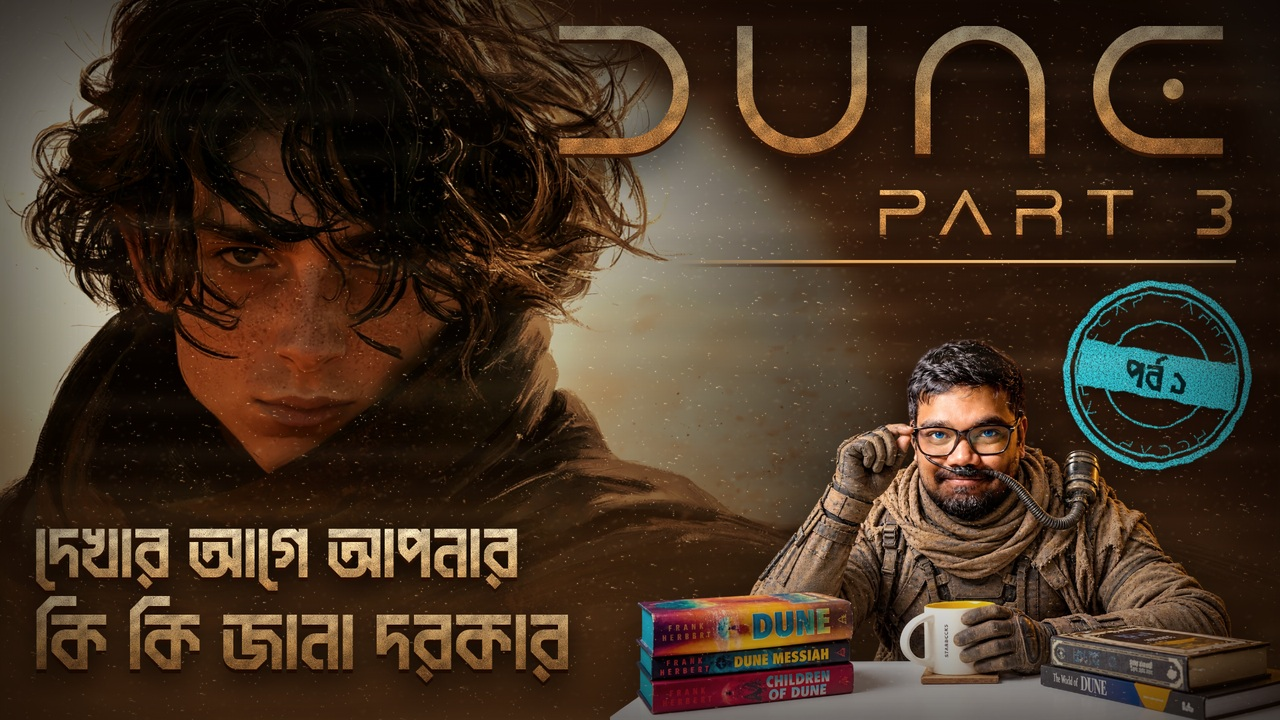
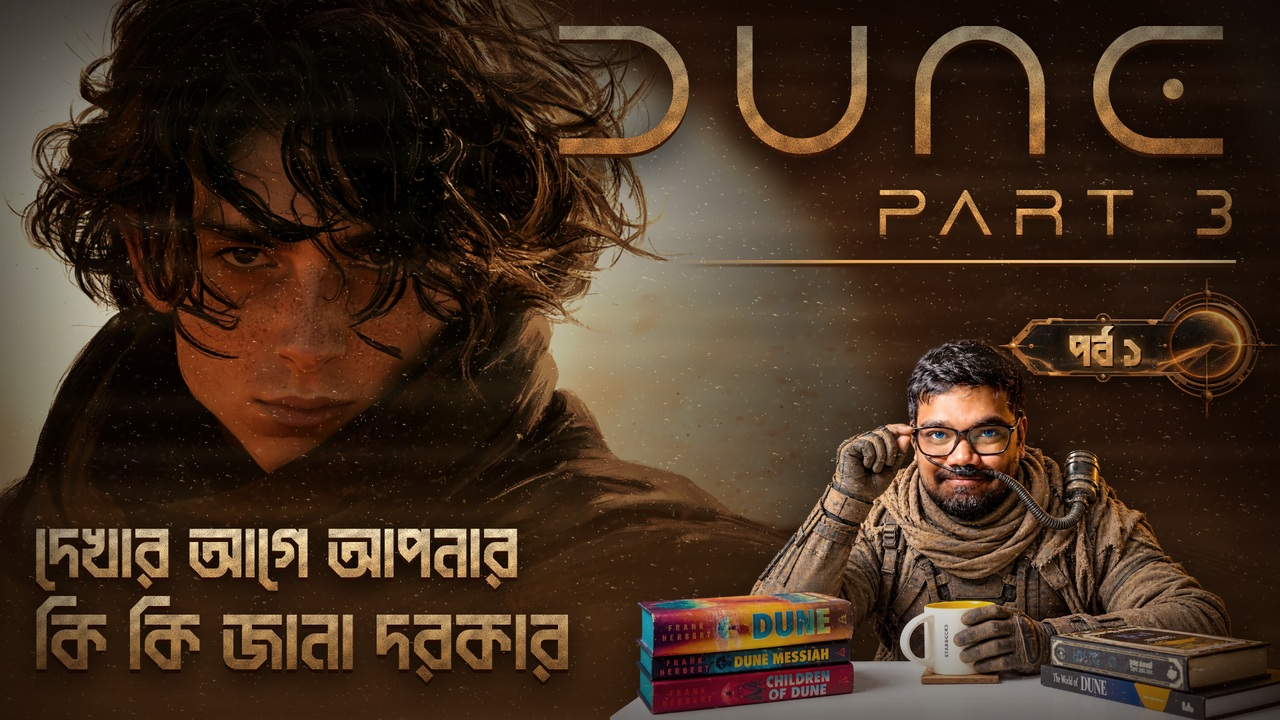
Thumbnail: replace stamp with flipped copper পর্ব ১ badge in Dabanol
Claude-Session: https://claude.ai/code/session_0199UBB8gc7Qm7gLSMgZnrMy

Changed region(s): [[0.7812, 0.3667, 1.0, 0.6722]]

diff --git a/thumbnails/dune-part3/thumb.html b/thumbnails/dune-part3/thumb.html
@@ -33,18 +33,18 @@ html,body{width:1280px;height:720px;overflow:hidden;background:#1a0d05}
 #bn{left:34px;bottom:30px;font-family:Dabanol;line-height:1.08;filter:drop-shadow(0 4px 0 #2a1004) drop-shadow(0 8px 16px rgba(0,0,0,.9))}
 #bn .l1{font-size:78px;background-image:url(sand_bn.png)}
 #bn .l2{font-size:88px;background-image:url(sand_title.png);background-position:0 40%}
-/* stamp */
-#stamp{left:1062px;top:280px;transform:rotate(10deg);filter:url(#grunge) drop-shadow(0 3px 6px rgba(0,0,0,.6));mix-blend-mode:normal}
+/* পর্ব ১ badge (flipped recreation of the supplied plate) */
+#badge{left:996px;top:278px;width:282px;height:141px;filter:drop-shadow(0 6px 10px rgba(0,0,0,.75))}
+#badge img{width:100%;height:100%;display:block}
+#badge .t{position:absolute;left:19.4%;width:38.6%;top:34%;height:32%;display:flex;align-items:center;justify-content:center;
+  font-family:Dabanol;font-size:47px;line-height:1;padding-top:4px;white-space:nowrap;
+  background:url(sand_title.png) 0 35%/300px auto;-webkit-background-clip:text;background-clip:text;color:transparent;-webkit-text-fill-color:transparent;
+  -webkit-text-stroke:1.2px transparent}
+#badge .glow{position:absolute;left:19.4%;width:38.6%;top:34%;height:32%;display:flex;align-items:center;justify-content:center;
+  font-family:Dabanol;font-size:47px;line-height:1;padding-top:4px;white-space:nowrap;color:#ff9a3c;filter:blur(6px);opacity:.75}
+#badge .sh{position:absolute;left:19.4%;width:38.6%;top:34%;height:32%;display:flex;align-items:center;justify-content:center;
+  font-family:Dabanol;font-size:47px;line-height:1;padding-top:4px;white-space:nowrap;color:#1a0a02;transform:translate(2px,3px)}
 </style></head><body>
-<svg width="0" height="0" style="position:absolute">
-  <filter id="grunge" x="-10%" y="-10%" width="120%" height="120%">
-    <feTurbulence type="fractalNoise" baseFrequency=".9" numOctaves="2" seed="4" result="n"/>
-    <feColorMatrix in="n" type="matrix" values="0 0 0 0 0  0 0 0 0 0  0 0 0 0 0  0 0 0 -3 2.35" result="holes"/>
-    <feComposite in="SourceGraphic" in2="holes" operator="in" result="eaten"/>
-    <feTurbulence type="fractalNoise" baseFrequency=".05" numOctaves="2" seed="9" result="d"/>
-    <feDisplacementMap in="eaten" in2="d" scale="5"/>
-  </filter>
-</svg>
 <div id="c">
   <div id="bg" class="abs"></div>
   <div id="warm" class="abs"></div>
@@ -65,20 +65,10 @@ html,body{width:1280px;height:720px;overflow:hidden;background:#1a0d05}
     <div class="l2 sand">কি কি জানা দরকার</div>
   </div>
 
-  <svg id="stamp" class="abs" width="190" height="190" viewBox="0 0 210 210">
-    <defs><path id="ring" d="M105,105 m-78,0 a78,78 0 1,1 156,0 a78,78 0 1,1 -156,0"/></defs>
-    <g fill="none" stroke="#33d6e6" >
-      <circle cx="105" cy="105" r="100" stroke-width="7"/>
-      <circle cx="105" cy="105" r="90" stroke-width="2.5"/>
-      <circle cx="105" cy="105" r="58" stroke-width="2.5"/>
-    </g>
-    <text fill="#33d6e6" font-family="DuneRise" font-size="15" letter-spacing="5">
-      <textPath href="#ring" startOffset="0">RECAP · ARRAKIS · RECAP · ARRAKIS ·</textPath>
-    </text>
-    <rect x="18" y="80" width="174" height="50" fill="#33d6e6"/>
-    <text x="105" y="122" text-anchor="middle" fill="#06262b" font-family="Dabanol" font-size="44">পর্ব ১</text>
-  </svg>
-
+  <div id="badge" class="abs">
+    <img src="badge.png">
+    <div class="glow">পর্ব ১</div><div class="sh">পর্ব ১</div><div class="t">পর্ব ১</div>
+  </div>
   <div id="overlay" class="abs"></div>
   <div id="vig" class="abs"></div>
 </div>

diff --git a/thumbnails/dune-part3/badge.py b/thumbnails/dune-part3/badge.py
@@ -1,0 +1,31 @@
+import numpy as np
+from PIL import Image, ImageFilter, ImageDraw
+
+rng = np.random.default_rng(3)
+src = Image.open('badge_src.webp').convert('RGBA')
+W, H = src.size
+
+# 1. erase the old lettering with a matching dark plate (in original orientation)
+x0, y0, x1, y1 = 745, 302, 1430, 582
+pw, ph = x1 - x0, y1 - y0
+base = np.zeros((ph, pw, 3), float) + (26, 18, 12)
+blot = Image.fromarray((rng.random((ph // 20, pw // 20)) * 255).astype(np.uint8)).resize((pw, ph), Image.BICUBIC)
+base *= (0.75 + 0.5 * np.asarray(blot) / 255)[..., None]
+base += rng.normal(0, 6, (ph, pw))[..., None]
+yy = np.arange(ph)[:, None]; xx = np.arange(pw)[None, :]
+# faint sand drift across the lower plate, continuing the dune from the planet
+wave = ph * 0.80 + 30 * (xx / pw) ** 1.5 - 14 * np.sin(xx / pw * np.pi)
+band = np.clip(1 - np.abs(yy - wave) / (6 + 22 * (1 - xx / pw)), 0, 1) * (1 - xx / pw) ** 0.7
+grain = rng.random((ph, pw))
+base += (band * (grain > 0.45) * (110 + 90 * grain))[..., None] * np.array([1.0, 0.6, 0.28])
+patch = Image.fromarray(np.clip(base, 0, 255).astype(np.uint8)).convert('RGBA')
+mask = Image.new('L', (pw, ph), 0)
+ImageDraw.Draw(mask).rectangle([14, 6, pw - 14, ph - 6], fill=255)
+mask = mask.filter(ImageFilter.GaussianBlur(9))
+src.paste(patch, (x0, y0), mask)
+
+# 2. flip: planet on the right, point on the left
+src = src.transpose(Image.FLIP_LEFT_RIGHT)
+src.save('badge.png')
+# text box centre (flipped coordinates) for the HTML overlay
+print('text box x', W - x1, W - x0, 'y', y0, y1, 'size', W, H)
